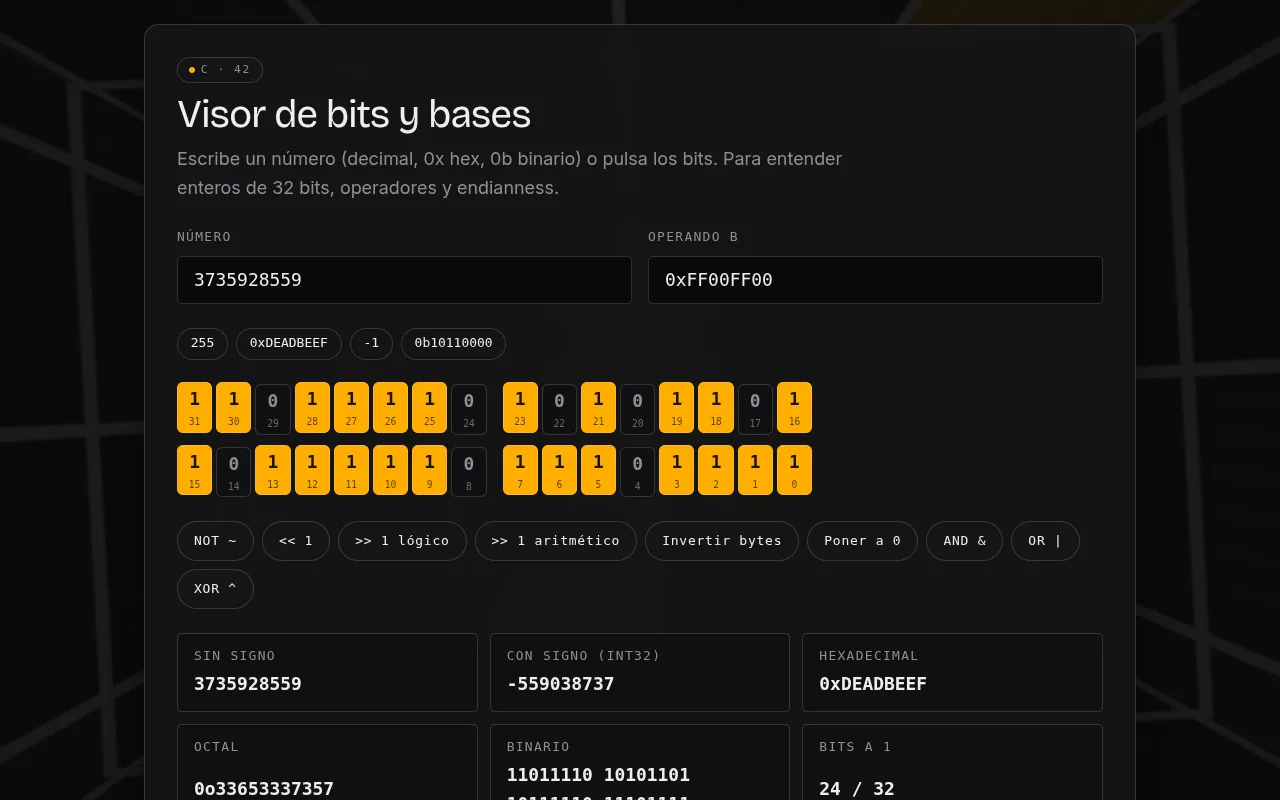
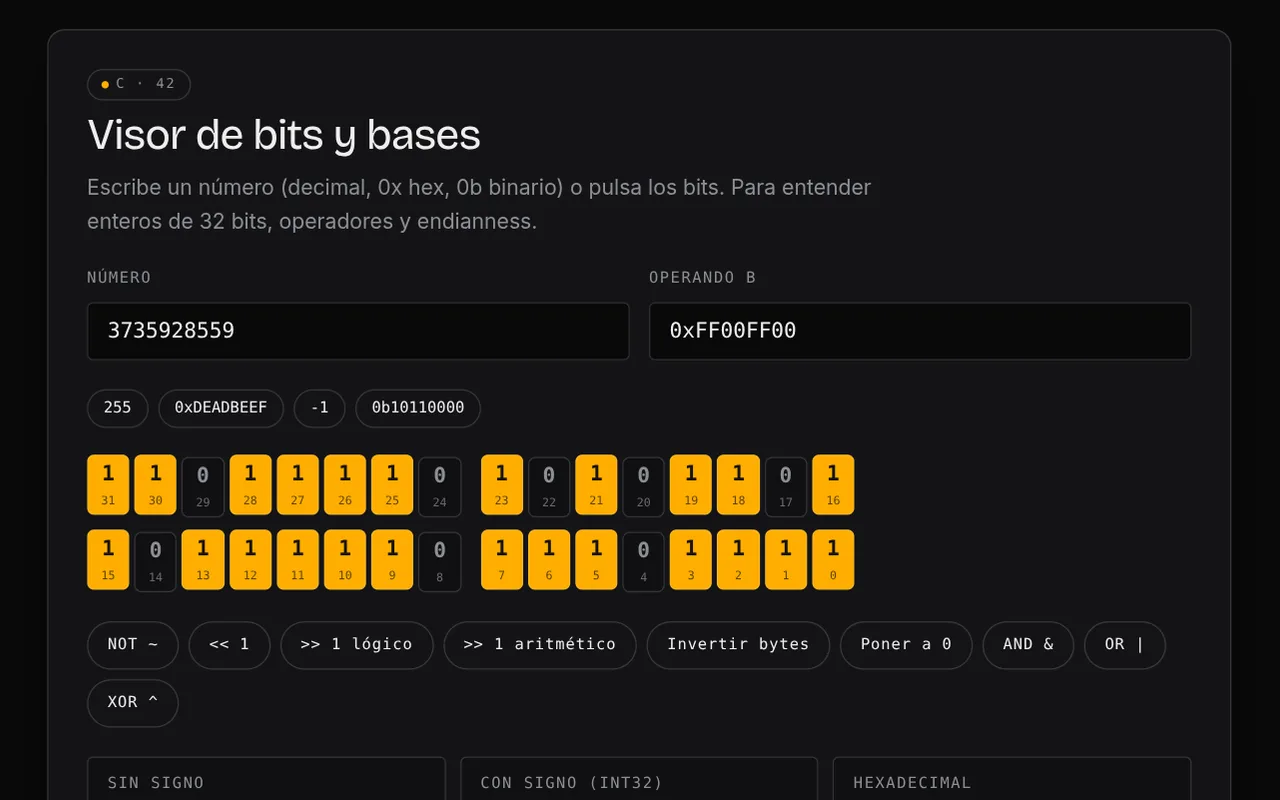
perf+fix: cursor sin retraso y menos efectos; capturas de las pantallas sin el grid viejo
- cursor.ts: la mano y el resplandor se colocan síncronamente en pointermove (sin lerp); el bucle
  solo calcula la inclinación y se apaga en reposo; resplandor más pequeño y una sola sombra.
- fx.ts: lienzo a 1×, máx. 70 partículas, 1 chispa cada ~56 px, ráfagas más pequeñas.
- Sin backdrop-filter sobre el WebGL (btn, card, burbujas, cabecera, lab): fondos algo más opacos.
- El mundo no se pinta mientras Proyectos (opaco, a pantalla completa) lo tapa; hero/interact solo
  con el hero a la vista; estela del mundo menos frecuente; dpr de Proyectos limitado a 1,25.
- capture-works: oculta el mundo y fija un fondo plano (sin grid viejo dentro de las pantallas),
  captura 16:10 ajustada al contenedor; el collage del huerto usa el fondo real de la demo.

Claude-Session: https://claude.ai/code/session_014p2bG9QzSEmzzpHE9ZQEcc

diff --git a/src/scripts/cursor.ts b/src/scripts/cursor.ts
@@ -1,8 +1,11 @@
 /**
- * Cursor: una mano naranja (como la patata) que sigue al puntero con un poco de
- * retraso, con resplandor y estela de chispas. Se inclina según la velocidad,
- * crece sobre lo clicable y se encoge al pulsar. Solo con puntero fino y sin
- * prefers-reduced-motion; en táctil o con menos movimiento queda el cursor nativo.
+ * Cursor: una mano naranja (como la patata) pegada al puntero, con un pequeño resplandor y una
+ * estela discreta de destellos. Se inclina según la velocidad, crece sobre lo clicable y se encoge
+ * al pulsar. Solo con puntero fino y sin prefers-reduced-motion; en táctil o con menos movimiento
+ * queda el cursor nativo.
+ * Rendimiento (el autor notó «input lag»): la mano y el resplandor se colocan SÍNCRONAMENTE en el
+ * `pointermove` (sin suavizado: cero retraso); el bucle de animación solo calcula la inclinación y
+ * se apaga solo cuando el puntero se queda quieto. La estela suelta pocas chispas.
  */
 import { burst, trail } from './fx';
 import { hasFinePointer, prefersReducedMotion } from './tokens';
@@ -15,27 +18,30 @@ if (root && hasFinePointer() && !prefersReducedMotion()) {
   const html = document.documentElement;
   let x = innerWidth / 2;
   let y = innerHeight / 2;
-  let hx = x;
-  let hy = y;
-  let gx = x;
-  let gy = y;
+  let px = x; // posición en el fotograma anterior (para la velocidad)
+  let tilt = 0;
   let trailDist = 0;
   let lastX = x;
   let lastY = y;
   let raf = 0;
+  let still = 0; // fotogramas seguidos sin movimiento
+
+  const place = () => {
+    const t = `${x}px ${y}px`;
+    if (hand) hand.style.translate = t; // `translate` (no `transform`): rotate/scale se componen bien con él
+    if (glow) glow.style.translate = t;
+  };
 
   const loop = () => {
-    const vx = x - hx;
-    hx += vx * 0.42;
-    hy += (y - hy) * 0.42;
-    gx += (x - gx) * 0.16;
-    gy += (y - gy) * 0.16;
-    if (hand) {
-      hand.style.translate = `${hx}px ${hy}px`; // `translate` (no `transform`): rotate/scale se componen bien con él
-      hand.style.rotate = `${Math.max(-22, Math.min(22, vx * 0.9))}deg`;
-    }
-    if (glow) glow.style.translate = `${gx}px ${gy}px`;
-    raf = requestAnimationFrame(loop);
+    const vx = x - px;
+    px = x;
+    tilt += (Math.max(-18, Math.min(18, vx * 0.8)) - tilt) * 0.3;
+    if (hand) hand.style.rotate = `${tilt.toFixed(1)}deg`;
+    still = Math.abs(vx) < 0.1 && Math.abs(tilt) < 0.2 ? still + 1 : 0;
+    raf = still > 20 ? 0 : requestAnimationFrame(loop); // sin movimiento, el bucle se apaga
+  };
+  const wake = () => {
+    if (!raf) raf = requestAnimationFrame(loop);
   };
 
   addEventListener(
@@ -45,28 +51,30 @@ if (root && hasFinePointer() && !prefersReducedMotion()) {
       x = e.clientX;
       y = e.clientY;
       if (!html.classList.contains('has-cursor')) {
-        hx = gx = lastX = x;
-        hy = gy = lastY = y;
+        px = lastX = x;
+        lastY = y;
         html.classList.add('has-cursor');
-        raf = requestAnimationFrame(loop);
       }
+      place();
+      wake();
       const d = Math.hypot(x - lastX, y - lastY);
       trailDist += d;
       lastX = x;
       lastY = y;
-      if (trailDist > 22) {
+      if (trailDist > 56) {
         trailDist = 0;
-        trail(x, y, d);
+        trail(x, y);
       }
       const hot = (e.target as Element | null)?.closest('a, button, [data-cursor], [data-doodle]');
-      root.dataset.state = hot ? 'link' : '';
+      const state = hot ? 'link' : '';
+      if (root.dataset.state !== state && root.dataset.state !== 'down') root.dataset.state = state;
     },
     { passive: true },
   );
   addEventListener('pointerdown', (e) => {
     if (e.pointerType !== 'mouse') return;
     root.dataset.state = 'down';
-    burst(e.clientX, e.clientY, 12, 0.8);
+    burst(e.clientX, e.clientY, 7, 0.7);
   });
   addEventListener('pointerup', () => (root.dataset.state = ''));
   document.addEventListener('mouseleave', () => html.classList.remove('has-cursor'));
@@ -74,7 +82,7 @@ if (root && hasFinePointer() && !prefersReducedMotion()) {
     if (document.hidden) {
       cancelAnimationFrame(raf);
       raf = 0;
-    } else if (html.classList.contains('has-cursor') && !raf) raf = requestAnimationFrame(loop);
+    }
   });
 }
 
@@ -84,7 +92,7 @@ if (!hasFinePointer() && !prefersReducedMotion()) {
     'pointerdown',
     (e) => {
       if (e.pointerType === 'mouse') return;
-      burst(e.clientX, e.clientY, 10, 0.7);
+      burst(e.clientX, e.clientY, 7, 0.6);
     },
     { passive: true },
   );

diff --git a/src/styles/global.css b/src/styles/global.css
@@ -106,7 +106,7 @@ button {
 
 /* Botones: píldora fina (como el «Contact / Recruit» de la referencia); un único componente para toda la web */
 .btn {
-  --btn-bg: color-mix(in srgb, var(--surface) 55%, transparent);
+  --btn-bg: color-mix(in srgb, var(--surface) 78%, transparent);
   --btn-fg: var(--ink);
   --btn-line: var(--line-soft);
   display: inline-flex;
@@ -126,7 +126,6 @@ button {
   text-decoration: none;
   cursor: pointer;
   white-space: nowrap;
-  backdrop-filter: blur(10px);
   transition:
     background var(--dur-fast) var(--ease-out),
     border-color var(--dur-fast) var(--ease-out),
@@ -173,11 +172,10 @@ button {
 /* Panel: relleno translúcido, línea fina y sin sombra dura */
 .card {
   padding: var(--space-5);
-  background: color-mix(in srgb, var(--surface) 78%, transparent);
+  background: color-mix(in srgb, var(--surface) 90%, transparent);
   border: var(--border-w) solid var(--line-soft);
   border-radius: var(--radius-m);
   box-shadow: var(--shadow-hard);
-  backdrop-filter: blur(12px);
 }
 /* Etiqueta mono con un punto de color (el naranja de la patata) */
 .tag {
@@ -242,9 +240,9 @@ html.has-cursor .cursor {
   will-change: translate;
 }
 .cursor__glow {
-  width: 5.5rem;
-  height: 5.5rem;
-  margin: -2.75rem 0 0 -2.75rem;
+  width: 3.6rem;
+  height: 3.6rem;
+  margin: -1.8rem 0 0 -1.8rem;
   border-radius: 50%;
   background: radial-gradient(circle, var(--glow), transparent 68%);
   mix-blend-mode: normal;
@@ -263,7 +261,7 @@ html.has-cursor .cursor {
   stroke-width: 3.6;
   stroke-linejoin: round;
   stroke-linecap: round;
-  filter: drop-shadow(0 0 0.35rem var(--glow)) drop-shadow(0.12rem 0.16rem 0 rgb(23 19 14 / 0.55));
+  filter: drop-shadow(0.1rem 0.14rem 0 rgb(23 19 14 / 0.5));
   transition:
     scale var(--dur-base) var(--ease-pop),
     fill var(--dur-fast) var(--ease-out);

diff --git a/src/scripts/fx.ts b/src/scripts/fx.ts
@@ -22,7 +22,7 @@ interface Particle {
 
 // Solo naranja y tinta (hueso en oscuro): destellos finos, sin confeti de colores
 const TOKENS = ['--accent', '--accent', '--ink', '--sun'] as const;
-const MAX_PARTICLES = 160;
+const MAX_PARTICLES = 70;
 
 let canvas: HTMLCanvasElement | undefined;
 let ctx: CanvasRenderingContext2D | null = null;
@@ -51,7 +51,7 @@ function ensure(): boolean {
   ctx = canvas.getContext('2d');
   const resize = () => {
     if (!canvas) return;
-    dpr = Math.min(devicePixelRatio || 1, 2);
+    dpr = 1; // las chispas son pequeñas: a 1× el lienzo cuesta menos y no se nota
     canvas.width = Math.round(innerWidth * dpr);
     canvas.height = Math.round(innerHeight * dpr);
   };
@@ -146,19 +146,16 @@ export function burst(x: number, y: number, count = 22, power = 1) {
   }
 }
 
-/** Chispa suelta de la estela del cursor; `speed` en px/frame. */
-export function trail(x: number, y: number, speed = 10) {
-  const n = speed > 28 ? 2 : 1;
-  for (let i = 0; i < n; i++) {
-    spawn({
-      x: x + (Math.random() - 0.5) * 14,
-      y: y + (Math.random() - 0.5) * 14,
-      vx: (Math.random() - 0.5) * 70,
-      vy: -20 - Math.random() * 60,
-      max: 0.55 + Math.random() * 0.5,
-      size: 4 + Math.random() * 6,
-      rot: Math.random() * 6,
-      spin: (Math.random() - 0.5) * 6,
-    });
-  }
+/** Chispa suelta de la estela del cursor (se llama pocas veces: cada ~56 px de recorrido). */
+export function trail(x: number, y: number) {
+  spawn({
+    x: x + (Math.random() - 0.5) * 14,
+    y: y + (Math.random() - 0.5) * 14,
+    vx: (Math.random() - 0.5) * 70,
+    vy: -20 - Math.random() * 60,
+    max: 0.4 + Math.random() * 0.35,
+    size: 4 + Math.random() * 6,
+    rot: Math.random() * 6,
+    spin: (Math.random() - 0.5) * 6,
+  });
 }

diff --git a/src/scripts/world/index.ts b/src/scripts/world/index.ts
@@ -52,7 +52,7 @@ async function start(el: HTMLElement) {
     'pointermove',
     (e) => {
       const now = performance.now();
-      if (e.pointerType !== 'mouse' || now - lastPush < 45) return;
+      if (e.pointerType !== 'mouse' || now - lastPush < 90) return;
       lastPush = now;
       const hit = scene.cast(mouse.x, -mouse.y, { ...view, dim: 1 });
       trail.unshift({ p: hit, born: now });
@@ -71,6 +71,8 @@ async function start(el: HTMLElement) {
   let visible = true;
   let raf = 0;
   const t0 = performance.now();
+  // Proyectos (pantalla completa, opaca) tapa el mundo: no tiene sentido pintarlo detrás
+  const covered = () => document.documentElement.classList.contains('is-covered');
 
   const loop = (now: number) => {
     const t = (now - t0) / 1000;
@@ -98,16 +100,20 @@ async function start(el: HTMLElement) {
       ripple: ripple ? [...ripple.p, (nowMs - ripple.born) / 1000] : null,
     });
     dispatchEvent(new CustomEvent('zapium:view', { detail: { ...view, z: view.z } }));
-    raf = visible && !document.hidden ? requestAnimationFrame(loop) : 0;
+    raf = visible && !covered() && !document.hidden ? requestAnimationFrame(loop) : 0;
   };
   const wake = () => {
-    if (!raf && visible && !document.hidden) raf = requestAnimationFrame(loop);
+    if (!raf && visible && !covered() && !document.hidden) raf = requestAnimationFrame(loop);
   };
   new IntersectionObserver(([entry]) => {
     visible = !!entry?.isIntersecting;
     wake();
   }).observe(el);
   document.addEventListener('visibilitychange', wake);
+  new MutationObserver(wake).observe(document.documentElement, {
+    attributes: true,
+    attributeFilter: ['class'],
+  });
 
   scene.frame(0, { ...view, dim: 0.86 });
   requestAnimationFrame(() => {

diff --git a/src/scripts/hero/interact.ts b/src/scripts/hero/interact.ts
@@ -15,10 +15,12 @@ const calm = prefersReducedMotion();
 // ── Parallax del hero y mirada/inclinación de la patata ───────────────
 if (hero && hasFinePointer() && !calm) {
   let frame = 0;
+  let inView = true;
+  new IntersectionObserver(([entry]) => (inView = !!entry?.isIntersecting)).observe(hero);
   addEventListener(
     'pointermove',
     (e) => {
-      if (frame) return;
+      if (frame || !inView) return;
       frame = requestAnimationFrame(() => {
         frame = 0;
         const r = hero.getBoundingClientRect();

diff --git a/src/scripts/works/index.ts b/src/scripts/works/index.ts
@@ -215,6 +215,11 @@ async function init(section: HTMLElement) {
     last = now;
     const r = read();
     visible = r.bottom > -300 && r.top < innerHeight + 300;
+    // Con la sección fijada ocupa toda la pantalla y es opaca: el mundo de detrás se deja de pintar
+    document.documentElement.classList.toggle(
+      'is-covered',
+      r.top <= 1 && r.bottom >= innerHeight - 1,
+    );
     const prev = p;
     p += (target - p) * (1 - Math.exp(-dt * 6.5));
     const vel = Math.abs(p - prev) / dt;

diff --git a/src/styles/lab.css b/src/styles/lab.css
@@ -3,11 +3,10 @@
   display: grid;
   gap: var(--space-5);
   padding: var(--space-6);
-  background: color-mix(in srgb, var(--surface) 82%, transparent);
+  background: color-mix(in srgb, var(--surface) 92%, transparent);
   border: var(--border-w) solid var(--line-soft);
   border-radius: var(--radius-l);
   box-shadow: var(--shadow-hard-lg);
-  backdrop-filter: blur(12px);
   scroll-margin-top: calc(var(--header-h) + var(--space-5));
 }
 .app__body {

diff --git a/src/scripts/works/scene.ts b/src/scripts/works/scene.ts
@@ -258,7 +258,7 @@ export function createWorksScene(sources: ScreenSource[], lowPower = false): Wor
   const renderer = new Renderer({
     alpha: false,
     antialias: !lowPower,
-    dpr: Math.min(devicePixelRatio || 1, lowPower ? 1 : 1.5),
+    dpr: Math.min(devicePixelRatio || 1, lowPower ? 1 : 1.25),
   });
   const gl = renderer.gl;
   gl.disable(gl.DEPTH_TEST);

diff --git a/CLAUDE.md b/CLAUDE.md
@@ -34,7 +34,10 @@ Fase 0 completada. **Fase 1 (sistema de diseño, esqueleto y hero espectacular) 
 - **Iconos y doodles SVG a medida** (`Icon.astro`, `Doodle.astro`): trazo fino, `currentColor`/tokens.
   Nada de librerías de iconos genéricas. Temas del autor: rayo (zap), código, velas (trading), bolsa (dropshipping),
   play (vídeo), terminal (shell de 42), cubo (huerto de Zapper), moneda, red (ASIR), «C».
-- **Cursor = mano naranja** con resplandor y estela de chispas (`cursor.ts` + `fx.ts`), solo con puntero fino.
+- **Cursor = mano naranja** pegada al puntero (SIN suavizado: se coloca síncronamente en `pointermove`; el autor notó «input lag»), resplandor
+  pequeño y estela discreta de chispas (`cursor.ts` + `fx.ts`: 1 chispa cada ~56 px, lienzo a 1×, máx. 70), solo con puntero fino.
+  **Rendimiento (norma):** nada de `backdrop-filter` sobre contenido que esté encima del WebGL (recompone el desenfoque cada fotograma);
+  el mundo se deja de pintar mientras Proyectos lo tapa (`html.is-covered`); `hero/interact.ts` solo trabaja con el hero a la vista.
 - **Crédito visible (pedido por el autor):** el pie de página dice «Diseño inspirado en alche.studio» (enlace, es/en) y el README lo recoge. No quitarlo.
 - **Referencias del autor:** reels de Instagram de webs hiperanimadas (mano que sigue al cursor con
   resplandores, scroll que entra en portales). No se han podido ver (Instagram bloqueado); ver `docs/content-notes.md`.
@@ -74,7 +77,7 @@ Fase 0 completada. **Fase 1 (sistema de diseño, esqueleto y hero espectacular) 
     pantallas (**paralaje**); (2) **paneles** = una pantalla 3D suelta por proyecto: convexa, con **lente de barril + aberración cromática**,
     viñeta, borde de cristal iridiscente, giro hacia el centro (coverflow), vaivén (flotan) y una **onda/doblez** que la recorre con la velocidad
     del scroll. Cada pantalla es un **vídeo** (`public/videos/NOMBRE.*`, textura viva, solo se reproduce la activa), una **captura**
-    (`public/works/NOMBRE.webp`, la genera `node scripts/capture-works.mjs`; **regenerarla cuando cambie el aspecto de las apps**) o un marcador
+    (`public/works/NOMBRE.webp`, la genera `node scripts/capture-works.mjs`; **regenerarla cuando cambie el aspecto de las apps**; salen sobre fondo plano y liso, SIN el mundo/grid de detrás: el autor vio el grid viejo dentro de las pantallas) o un marcador
     `[TODO]` dibujado en un canvas. Escritorio y móvil: la sección se fija (`data-gl`) y el scroll vertical recorre las pantallas con una pausa en
     cada una; el texto del proyecto activo (DOM real; el resto `visibility:hidden`) va **abajo a la izquierda** como en la referencia, con
     números 01–05 abajo a la derecha (también flechas del teclado y foco); la patata guía cruza por abajo. En vertical (móvil) la pantalla sube y el
